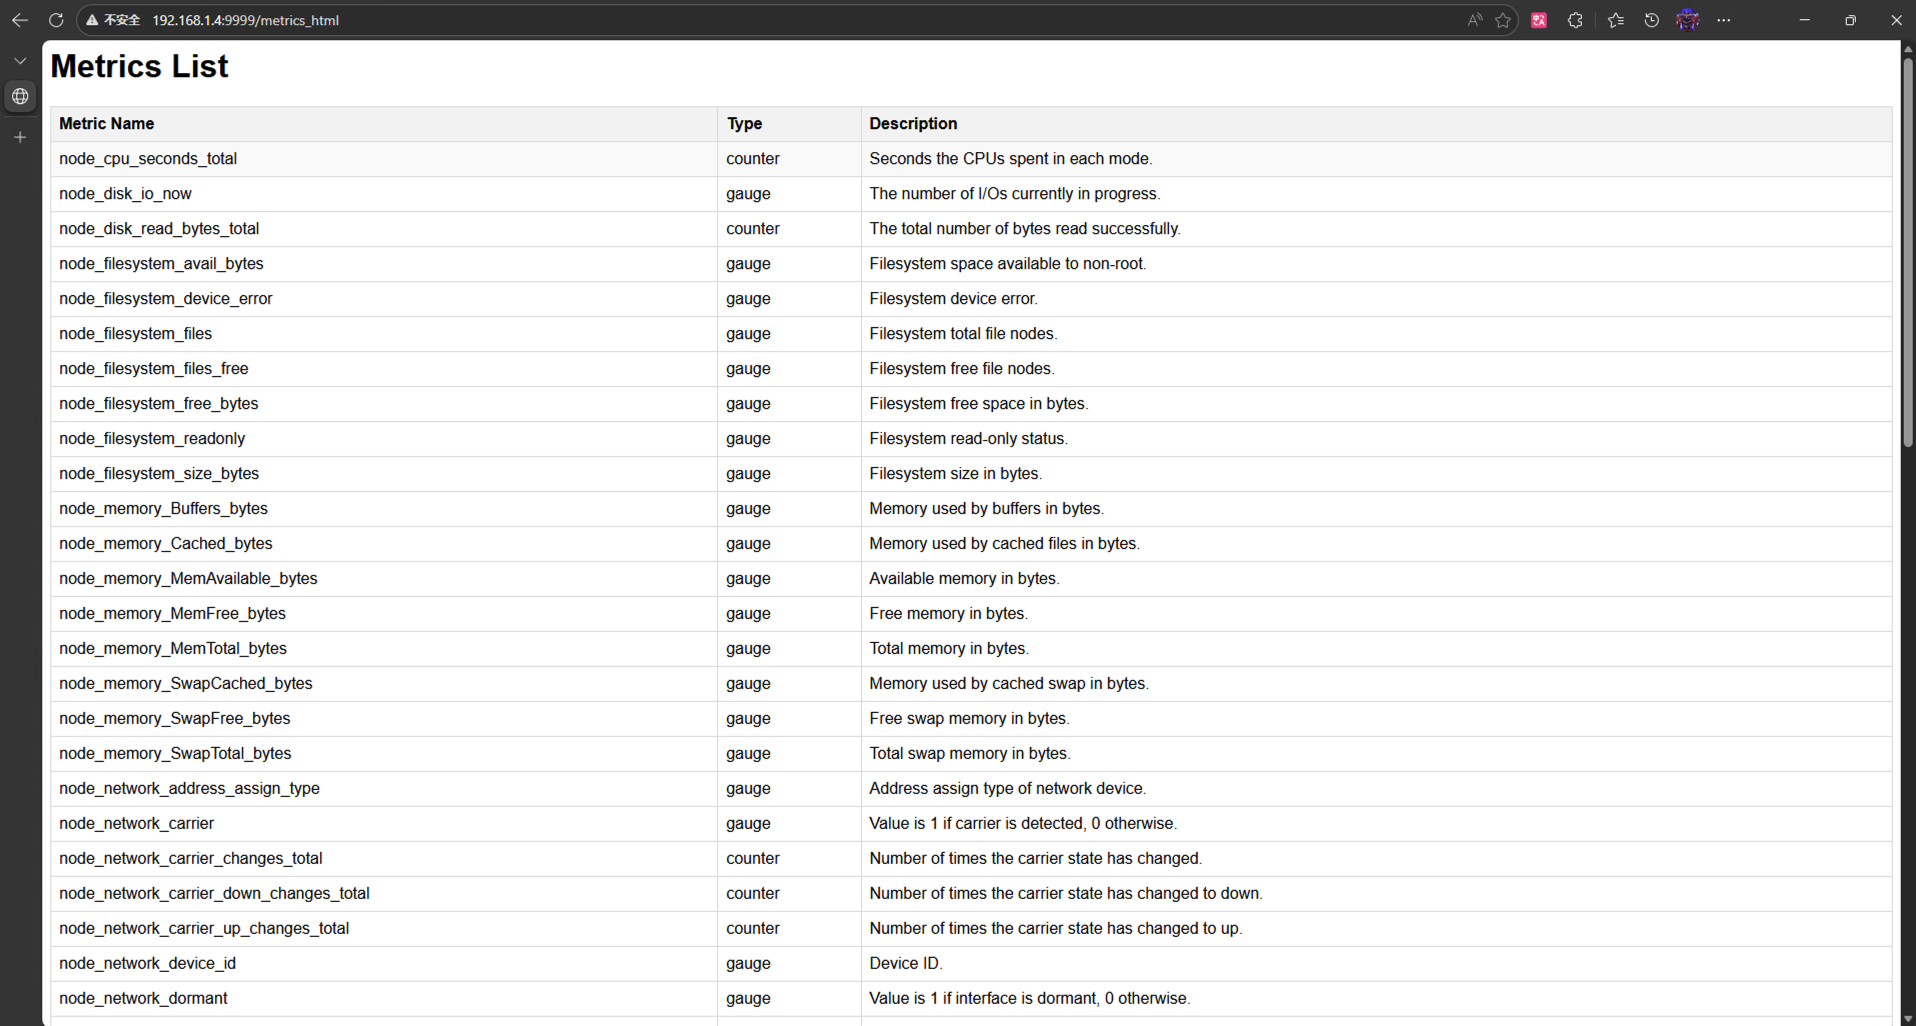
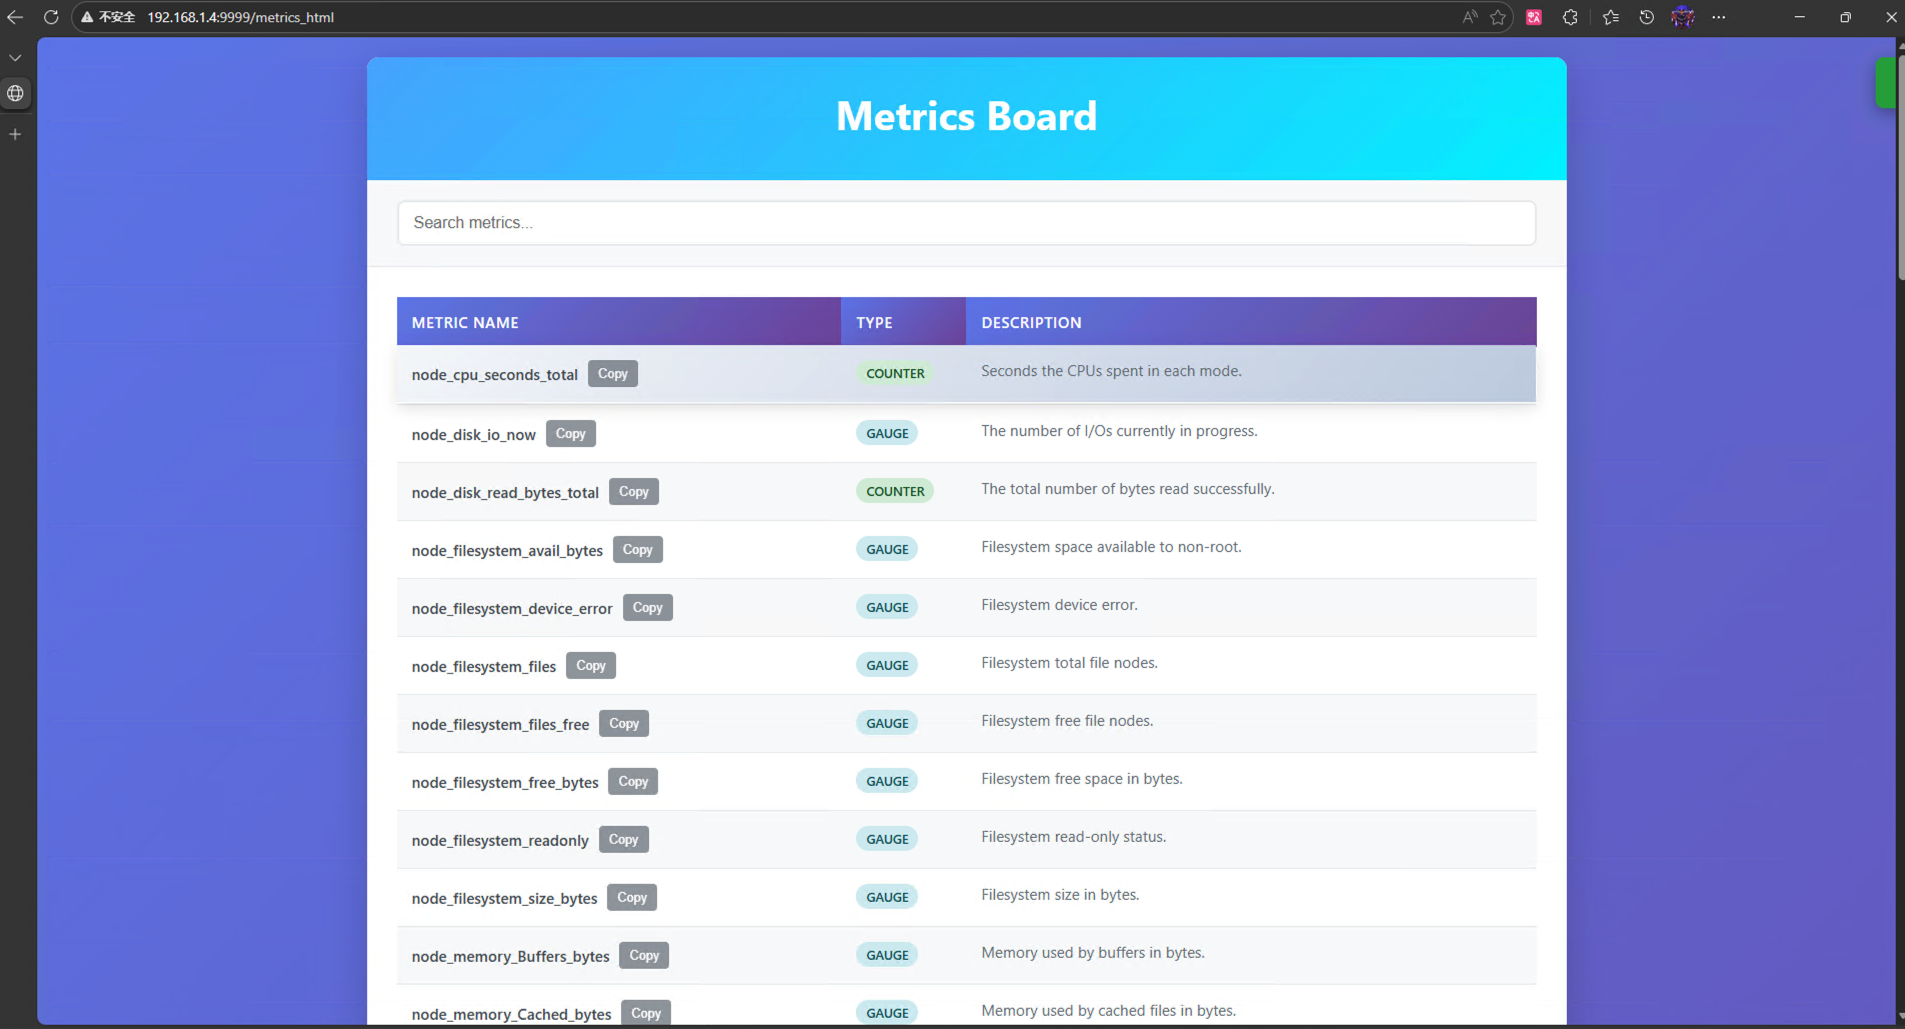
update README

diff --git a/main.py b/main.py
@@ -33,36 +33,309 @@ def metrics_html():
     <html>
     <head>
         <meta charset="utf-8">
-        <title>Metrics</title>
+        <meta name="viewport" content="width=device-width, initial-scale=1.0">
+        <title>Metrics Dashboard</title>
         <style>
-            body { font-family: Arial, sans-serif; }
-            table { border-collapse: collapse; width: 100%; }
-            th, td { border: 1px solid #ddd; padding: 8px; }
-            th { background-color: #f4f4f4; text-align: left; }
-            tr:hover { background-color: #fafafa; }
+            * {
+                box-sizing: border-box;
+                margin: 0;
+                padding: 0;
+            }
+            
+            body {
+                font-family: -apple-system, BlinkMacSystemFont, 'Segoe UI', Roboto, Oxygen, Ubuntu, Cantarell, sans-serif;
+                background: linear-gradient(135deg, #667eea 0%, #764ba2 100%);
+                min-height: 100vh;
+                padding: 20px;
+                color: #333;
+            }
+            
+            .container {
+                max-width: 1200px;
+                margin: 0 auto;
+                background: white;
+                border-radius: 12px;
+                box-shadow: 0 10px 40px rgba(0, 0, 0, 0.15);
+                overflow: hidden;
+            }
+            
+            .header {
+                background: linear-gradient(135deg, #4facfe 0%, #00f2fe 100%);
+                color: white;
+                padding: 30px;
+                text-align: center;
+            }
+            
+            .header h1 {
+                font-size: 2.5rem;
+                margin-bottom: 10px;
+                font-weight: 700;
+            }
+            
+            .header p {
+                font-size: 1.1rem;
+                opacity: 0.9;
+            }
+            
+            .search-container {
+                padding: 20px 30px;
+                background: #f8f9fa;
+                border-bottom: 1px solid #e9ecef;
+            }
+            
+            #searchInput {
+                width: 100%;
+                padding: 12px 15px;
+                border: 2px solid #e9ecef;
+                border-radius: 8px;
+                font-size: 1rem;
+                transition: border-color 0.3s ease;
+            }
+            
+            #searchInput:focus {
+                outline: none;
+                border-color: #4facfe;
+                box-shadow: 0 0 0 3px rgba(79, 172, 254, 0.1);
+            }
+            
+            .table-container {
+                padding: 30px;
+                overflow-x: auto;
+            }
+            
+            table {
+                width: 100%;
+                border-collapse: collapse;
+                font-size: 0.95rem;
+            }
+            
+            th {
+                background: linear-gradient(135deg, #667eea 0%, #764ba2 100%);
+                color: white;
+                padding: 15px;
+                text-align: left;
+                font-weight: 600;
+                text-transform: uppercase;
+                letter-spacing: 0.5px;
+                border: none;
+            }
+            
+            td {
+                padding: 15px;
+                border-bottom: 1px solid #e9ecef;
+                vertical-align: top;
+            }
+            
+            tr {
+                transition: all 0.3s ease;
+                background: white;
+            }
+            
+            tr:hover {
+                background: linear-gradient(135deg, #f5f7fa 0%, #c3cfe2 100%);
+                transform: translateY(-2px);
+                box-shadow: 0 5px 15px rgba(0, 0, 0, 0.1);
+            }
+            
+            tr:nth-child(even) {
+                background: #f8f9fa;
+            }
+            
+            tr:nth-child(even):hover {
+                background: linear-gradient(135deg, #f5f7fa 0%, #c3cfe2 100%);
+            }
+            
+            .metric-name-cell {
+                display: flex;
+                align-items: center;
+                gap: 10px;
+            }
+            
+            .metric-name {
+                font-weight: 600;
+                color: #495057;
+            }
+            
+            .copy-btn {
+                background: #6c757d;
+                color: white;
+                border: none;
+                border-radius: 4px;
+                padding: 6px 10px;
+                cursor: pointer;
+                font-size: 0.8rem;
+                transition: all 0.3s ease;
+                opacity: 0.7;
+            }
+            
+            .copy-btn:hover {
+                background: #495057;
+                opacity: 1;
+                transform: scale(1.05);
+            }
+            
+            .copy-btn:active {
+                transform: scale(0.95);
+            }
+            
+            .metric-type {
+                display: inline-block;
+                padding: 4px 10px;
+                border-radius: 20px;
+                font-size: 0.8rem;
+                font-weight: 600;
+                text-transform: uppercase;
+            }
+            
+            .metric-type.counter {
+                background: #d4edda;
+                color: #155724;
+            }
+            
+            .metric-type.gauge {
+                background: #d1ecf1;
+                color: #0c5460;
+            }
+            
+            .metric-type.histogram {
+                background: #fff3cd;
+                color: #856404;
+            }
+            
+            .metric-type.summary {
+                background: #f8d7da;
+                color: #721c24;
+            }
+            
+            .metric-desc {
+                color: #6c757d;
+                line-height: 1.4;
+            }
+            
+            .toast {
+                position: fixed;
+                top: 20px;
+                right: 20px;
+                background: #28a745;
+                color: white;
+                padding: 15px 20px;
+                border-radius: 8px;
+                box-shadow: 0 5px 15px rgba(0, 0, 0, 0.3);
+                font-size: 1rem;
+                transform: translateX(100%);
+                transition: transform 0.3s ease;
+                z-index: 1000;
+            }
+            
+            .toast.show {
+                transform: translateX(0);
+            }
+            
+            @media (max-width: 768px) {
+                body {
+                    padding: 10px;
+                }
+                
+                .header h1 {
+                    font-size: 2rem;
+                }
+                
+                .table-container {
+                    padding: 15px;
+                }
+                
+                th, td {
+                    padding: 10px;
+                    font-size: 0.85rem;
+                }
+                
+                .metric-name-cell {
+                    flex-direction: column;
+                    align-items: flex-start;
+                    gap: 5px;
+                }
+            }
         </style>
     </head>
     <body>
-        <h1>Metrics List</h1>
-        <table>
-            <tr>
-                <th>Metric Name</th>
-                <th>Type</th>
-                <th>Description</th>
-            </tr>
+        <div class="container">
+            <div class="header">
+                <h1>Metrics Board</h1>
+            </div>
+            
+            <div class="search-container">
+                <input type="text" id="searchInput" placeholder="Search metrics...">
+            </div>
+            
+            <div class="table-container">
+                <table id="metricsTable">
+                    <tr>
+                        <th>Metric Name</th>
+                        <th>Type</th>
+                        <th>Description</th>
+                    </tr>
     """
 
     for name, info in sorted(metrics.items()):
+        mtype = info.get("type", "-")
+        desc = info.get("desc", "-")
         html += f"""
-            <tr>
-                <td>{name}</td>
-                <td>{info.get("type", "-")}</td>
-                <td>{info.get("desc", "-")}</td>
-            </tr>
+                    <tr>
+                        <td>
+                            <div class="metric-name-cell">
+                                <span class="metric-name">{name}</span>
+                                <button class="copy-btn" onclick="copyToClipboard('{name}')">Copy</button>
+                            </div>
+                        </td>
+                        <td>
+                            <span class="metric-type {mtype}">{mtype}</span>
+                        </td>
+                        <td>
+                            <span class="metric-desc">{desc}</span>
+                        </td>
+                    </tr>
         """
 
     html += """
-        </table>
+                </table>
+            </div>
+        </div>
+        
+        <div id="toast" class="toast">Copied to clipboard!</div>
+        
+        <script>
+            // Copy to clipboard function
+            function copyToClipboard(text) {
+                navigator.clipboard.writeText(text).then(() => {
+                    // Show toast notification
+                    const toast = document.getElementById('toast');
+                    toast.classList.add('show');
+                    
+                    // Hide toast after 2 seconds
+                    setTimeout(() => {
+                        toast.classList.remove('show');
+                    }, 2000);
+                });
+            }
+            
+            // Search functionality
+            document.getElementById('searchInput').addEventListener('input', function() {
+                const searchTerm = this.value.toLowerCase();
+                const rows = document.querySelectorAll('#metricsTable tr:not(:first-child)');
+                
+                rows.forEach(row => {
+                    const metricName = row.querySelector('.metric-name').textContent.toLowerCase();
+                    const metricType = row.querySelector('.metric-type').textContent.toLowerCase();
+                    const metricDesc = row.querySelector('.metric-desc').textContent.toLowerCase();
+                    
+                    if (metricName.includes(searchTerm) || metricType.includes(searchTerm) || metricDesc.includes(searchTerm)) {
+                        row.style.display = '';
+                    } else {
+                        row.style.display = 'none';
+                    }
+                });
+            });
+        </script>
     </body>
     </html>
     """
